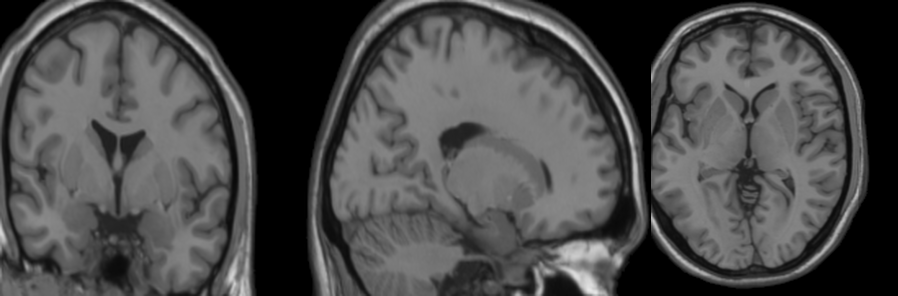
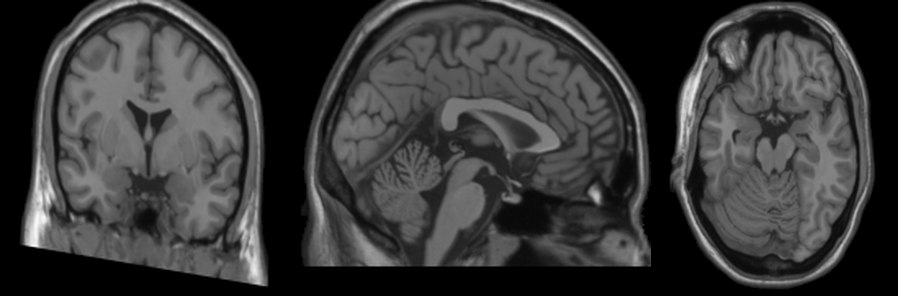
Increased bias field intensity for README

diff --git a/runall.py b/runall.py
@@ -34,7 +34,7 @@ if __name__ == '__main__':
     save_image(mriaug.affine3d(x, translate, rotate, zoom, shear), 'data/affine.png')
     save_image(mriaug.warp3d(x, magnitude=1.), 'data/warp.png')
     save_image(mriaug.affinewarp3d(x, zoom, rotate, translate, shear, magnitude=1.), 'data/affinewarp.png')
-    save_image(mriaug.bias_field3d(x, intensity=1.), 'data/bias_field.png')
+    save_image(mriaug.bias_field3d(x, intensity=2.), 'data/bias_field.png')
     save_image(mriaug.contrast(x, lighting=.5), 'data/contrast.png')
     save_image(mriaug.noise3d(x, intensity=.05), 'data/noise.png')
     save_image(mriaug.chi_noise3d(x, intensity=.05, dof=3), 'data/chi_noise.png')

diff --git a/speed.py b/speed.py
@@ -27,7 +27,7 @@ mriaug_run_args = {op: '' for op in OPS}
 mriaug_setups['affine'] = f'zoom, rotate, translate = torch.tensor([{zoom}]), torch.tensor([{rotate}]), torch.tensor([{translate}])'
 mriaug_run_args['affine'] = ', zoom=zoom, rotate=rotate, translate=translate'
 mriaug_run_args['warp'] = ', magnitude=1.'
-mriaug_run_args['bias_field'] = ', intensity=1.'
+mriaug_run_args['bias_field'] = ', intensity=2.'
 mriaug_run_args['noise'] = ', intensity=.05'
 mriaug_run_args['downsample'] = ', scale=.25, dim=2'
 mriaug_run_args['ghosting'] = ', intensity=.5'

diff --git a/README.md b/README.md
@@ -74,7 +74,7 @@ and **run all augmentations** (see [`runall.py`](https://github.com/codingfisch/
 ### [`affinewarp3d(x, translate, rotate, zoom, shear, magnitude=1.)`](https://github.com/codingfisch/mriaug_beta/blob/main/mriaug/core.py#L73)
 ![](data/affinewarp.png)
 
-### [`bias_field3d(x, intensity=1.)`](https://github.com/codingfisch/mriaug_beta/blob/main/mriaug/core.py#L111)
+### [`bias_field3d(x, intensity=2.)`](https://github.com/codingfisch/mriaug_beta/blob/main/mriaug/core.py#L111)
 ![](data/bias_field.png)
 
 ### [`contrast(x, lighting=.5)`](https://github.com/codingfisch/mriaug_beta/blob/main/mriaug/core.py#L88)
